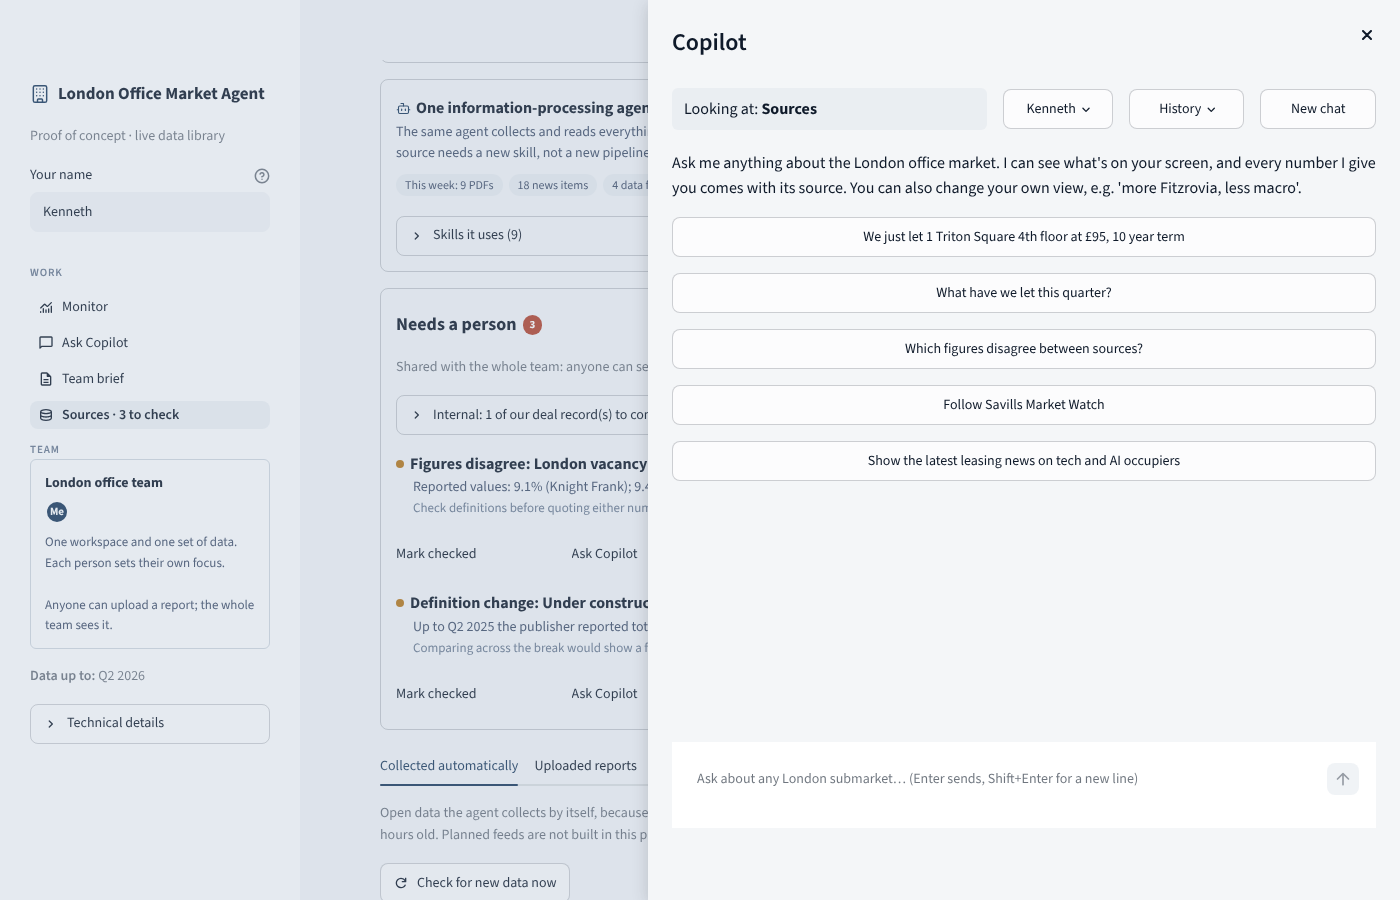
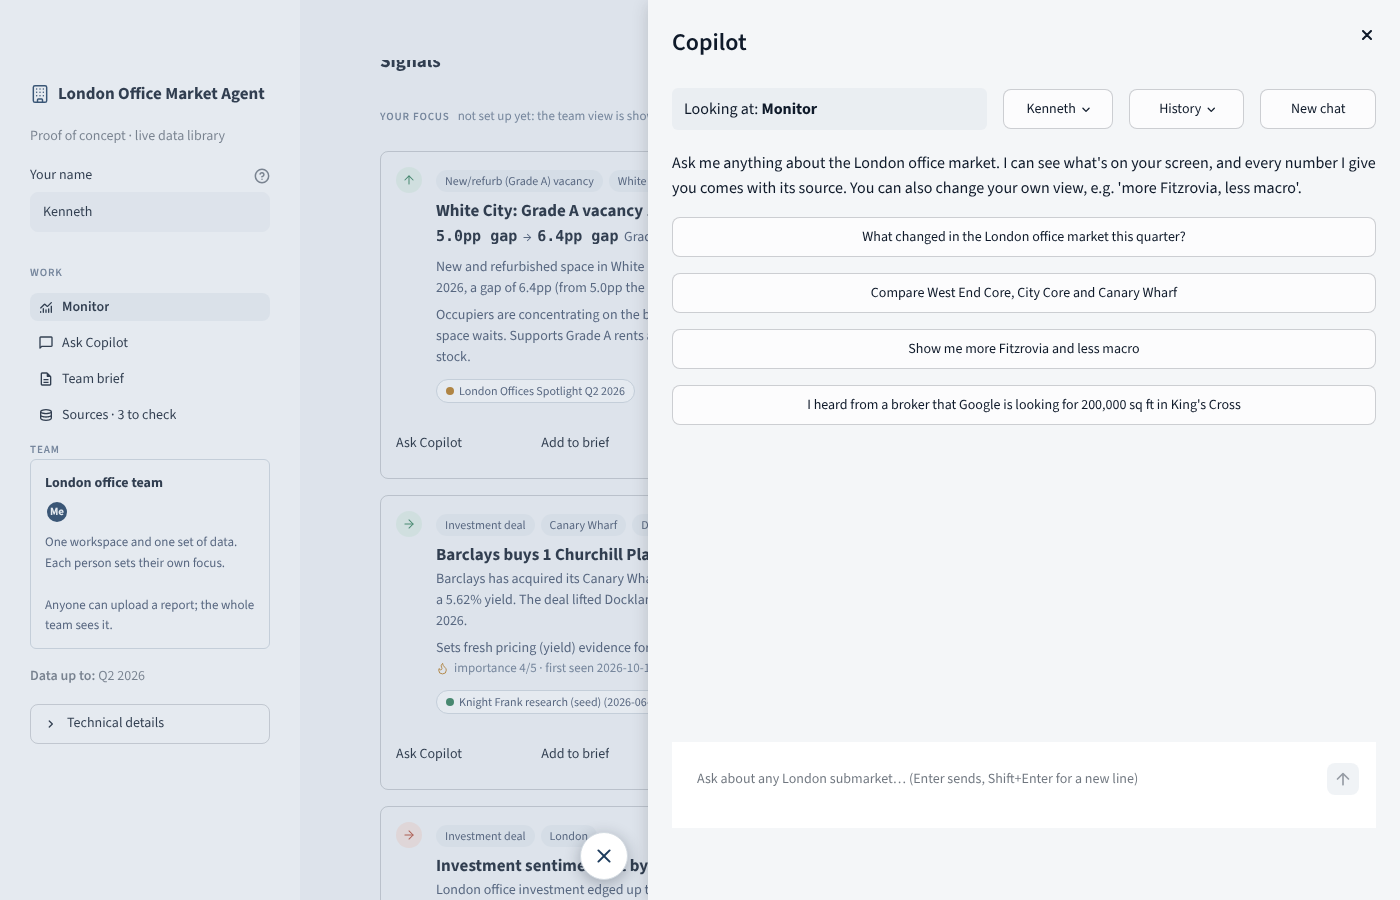
Floating Copilot button: v16 spec (48 px, close button beside the open panel)
Claude-Session: https://claude.ai/code/session_01VssUfiVQ3tn9b1dVnCTiLG

diff --git a/app.py b/app.py
@@ -119,11 +119,16 @@ a.loa-chip { text-decoration:none; }
 .loa-brand { display:flex; align-items:center; gap:8px; font-size:17px; font-weight:700; color:var(--ink); margin:4px 0 2px 0; }
 .loa-brand .loa-ic { margin:0; color:var(--accent); }
 /* Copilot floating button: bottom right of every page, above the content; gone while the panel is open */
-.st-key-fab_copilot { position:fixed; right:28px; bottom:28px; z-index:1001; width:auto !important; }
-.st-key-fab_copilot button { width:54px; height:54px; min-height:54px; border-radius:50%; padding:0;
+.st-key-fab_copilot { position:fixed; right:max(20px, env(safe-area-inset-right)); bottom:max(20px, env(safe-area-inset-bottom));
+  z-index:1001; width:auto !important; }
+.st-key-fab_copilot button, .st-key-fab_close button { width:48px; height:48px; min-height:48px; border-radius:50%; padding:0;
   box-shadow:0 4px 16px rgba(15,26,42,.30); }
-.st-key-fab_copilot button [data-testid="stIconMaterial"] { font-size:26px; }
+.st-key-fab_copilot button [data-testid="stIconMaterial"], .st-key-fab_close button [data-testid="stIconMaterial"] { font-size:24px; }
 body:has(div[data-testid="stDialog"]) .st-key-fab_copilot { display:none; }
+/* while the panel is open the same spot holds a white close button, just left of the panel's edge (desktop) */
+.st-key-fab_close { position:fixed; bottom:max(20px, env(safe-area-inset-bottom)); right:772px; z-index:1001; width:auto !important; }  /* panel is 752px wide */
+.st-key-fab_close button { background:#fff; color:var(--accent); border:1px solid var(--line); }
+@media (max-width: 760px) { .st-key-fab_close { display:none; } }
 /* Copilot side panel: the input box stays at the bottom of the panel while the conversation scrolls above it */
 div[data-testid="stDialog"] section > div { display:flex; flex-direction:column; }
 div[data-testid="stDialog"] section > div > div[data-testid="stVerticalBlock"],
@@ -519,6 +524,8 @@ def open_copilot(context=None):
 @st.dialog("Copilot", position="right", width="medium", on_dismiss="rerun")
 def copilot():
     st.session_state["_in_dialog"] = True
+    if st.button("", icon=material("x"), key="fab_close", help="Close · Esc"):
+        st.rerun()  # a full rerun closes the panel; the page underneath keeps its place and the chat is saved
     copilot_body()
 
 
